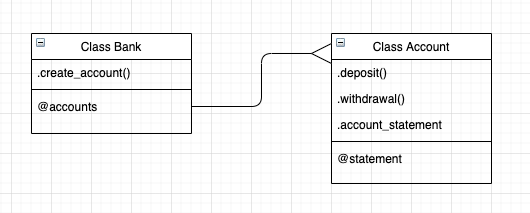
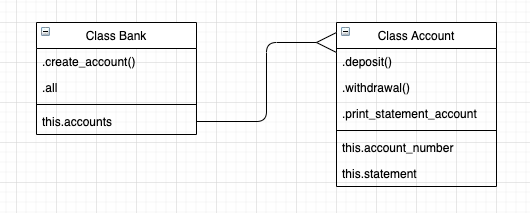
project plan & diagram  updated

diff --git a/README.md b/README.md
@@ -1,7 +1,19 @@
 # Bank
 
-- This is a simulation of a bank project where a user can: .deposit, .withdrawal and .print_statement_account.
+This is a simulation of a bank project where a user that hold an account can: .deposit(), .withdrawal() and .print_statement_account.
+This Bank application is written in javascript.
 
 **- Class diagram**
 
-![](./images/bankClassDiagram.png)
+![](./images/BankClassDiagram.png)
+
+**- Project plan**
+
+| Action | Method Applied | Outcome |
+| -------------- | ----------- | ------- |
+| .create_account('012345') | .account.length | 1 |
+| .create_account('012345') | .all | '012345' |
+| | .print_account_statement | 'date ll credit ll debit ll balance' |
+| .deposit(01-09-2020, 100.00) | .print_account_statement | 'date ll credit ll debit ll balance'\n'01-09-2020 ll 100.00 ll ll 100.00' |
+| .withdrawal(02-09-2020, 50.00) | .print_account_statement | 'date ll credit ll debit ll balance'\n'02-09-2020 ll ll 50.00 ll 50.00'|
+| .deposit(01-09-2020, 100.00); .withdrawal(02-09-2020, 50.00) | .print_account_statement | 'date ll credit ll debit ll balance'\n'01-09-2020 ll 100.00 ll ll 100.00'\n'02-09-2020 ll ll 50.00 ll 50.00' |
